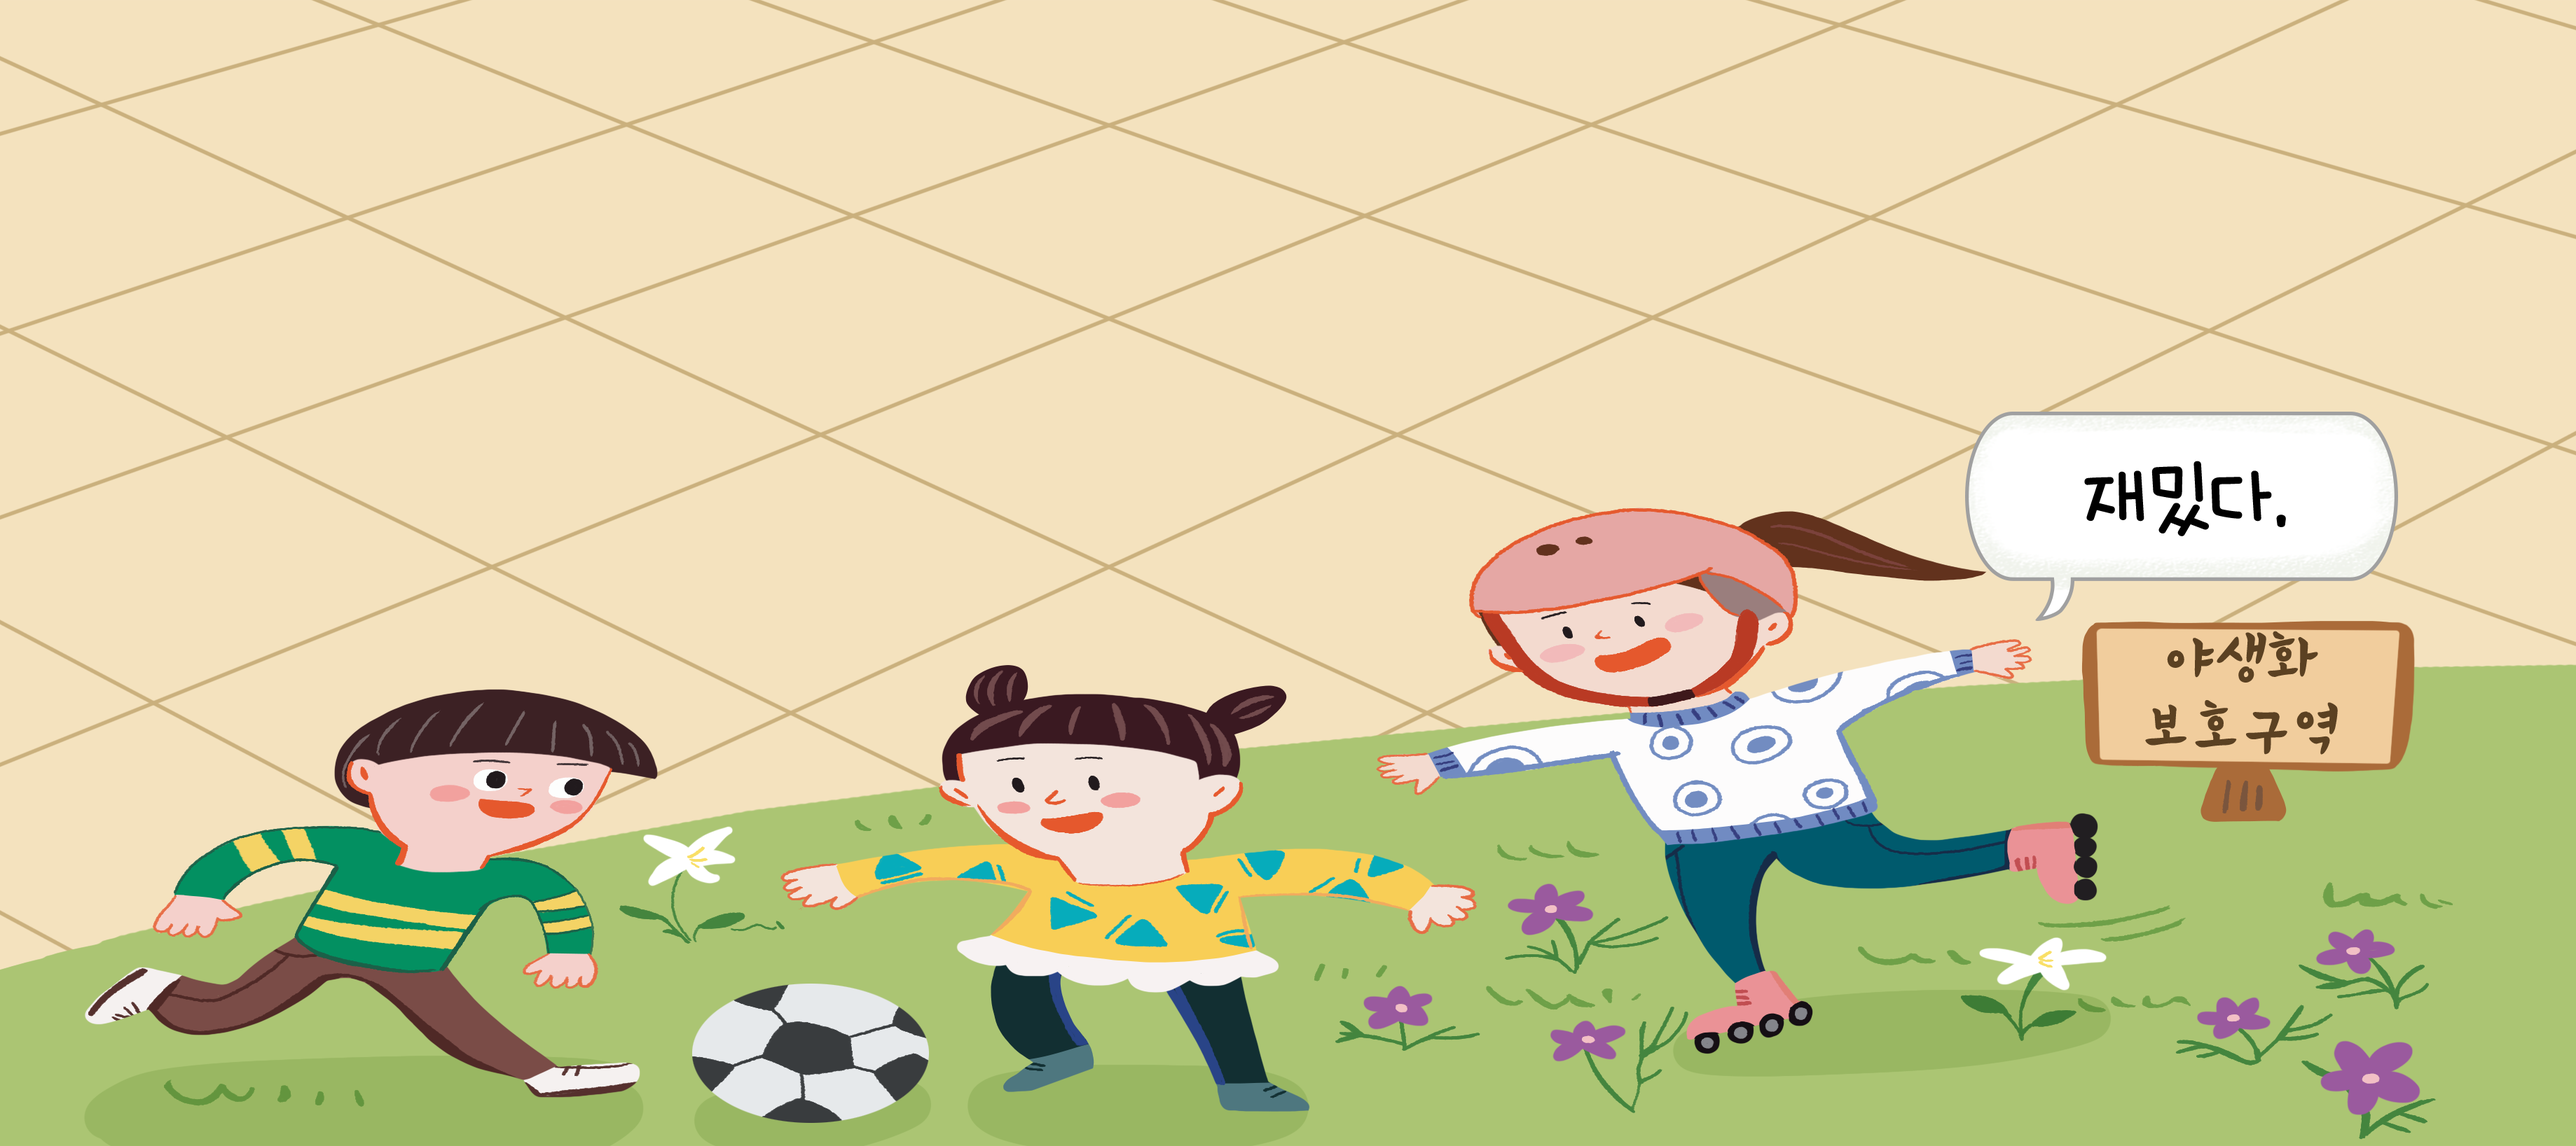
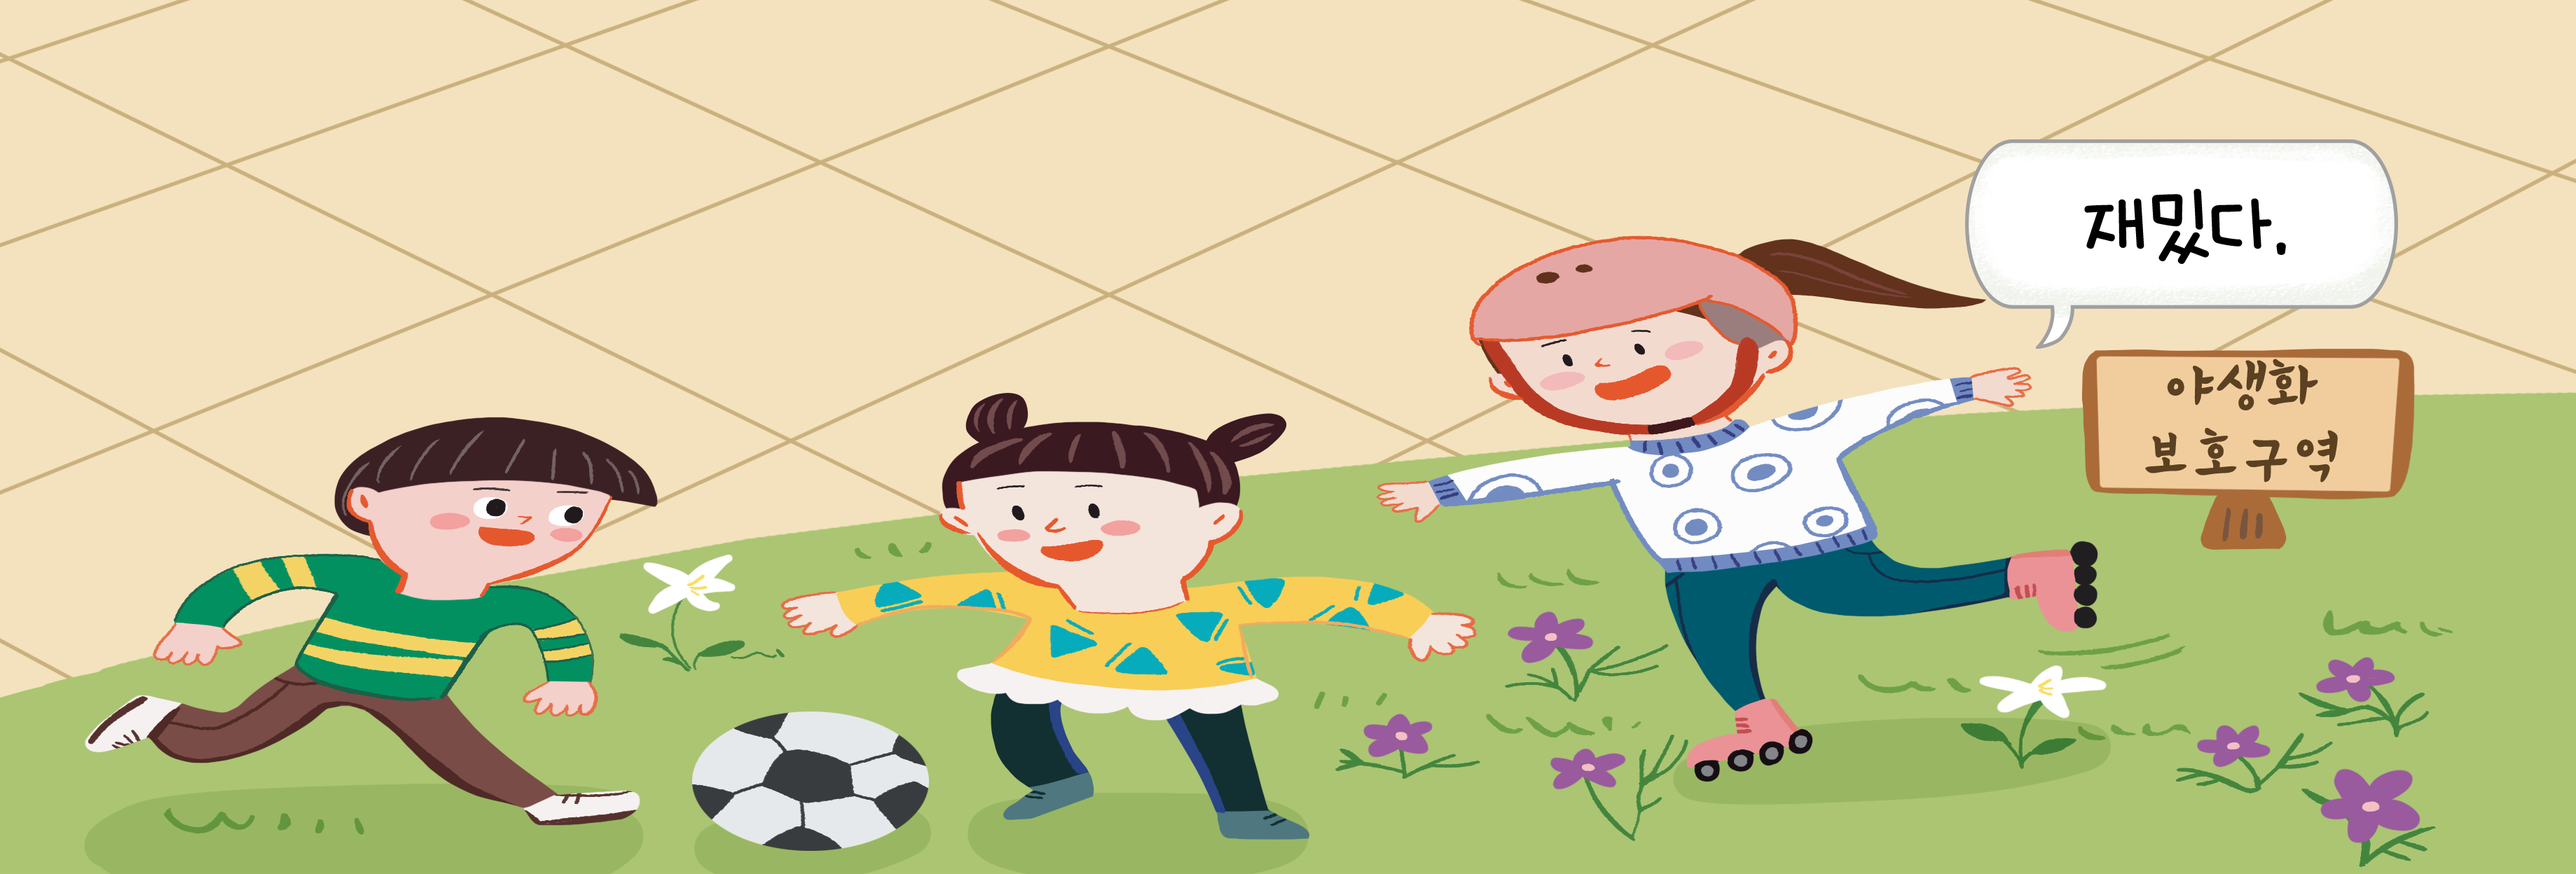
fix bug 5-8-2025

diff --git a/Grade_03_4/duk_03_07_0002/duk_03_07_0002_101.html b/Grade_03_4/duk_03_07_0002/duk_03_07_0002_101.html
@@ -492,7 +492,7 @@
                                 <div class="flex">
                                     <div class="items">
                                         <img src="./images/duk_03_07_0002_101/img_10.png" alt=""
-                                            style="width: 660px; height: 400px; object-fit: fill;">
+                                            style="width: 660px; height: 350px; object-fit: fill;">
                                     </div>
                                     <div class="items" data-quiz="toggle">
                                         <div data-type="toggleButton" class="box">

diff --git a/Grade_04_4/duk_04_07_0001/duk_04_07_0001_301.html b/Grade_04_4/duk_04_07_0001/duk_04_07_0001_301.html
@@ -271,6 +271,10 @@
         .answer {
             font-family: 'NotoM';
         }
+
+        .popup_pages>li.image.whole {
+            width: calc(100% + 1px);
+        }
     </style>
 </head>
 
